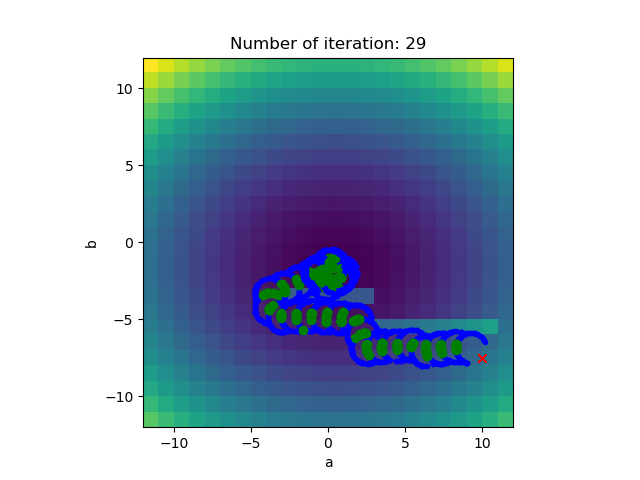
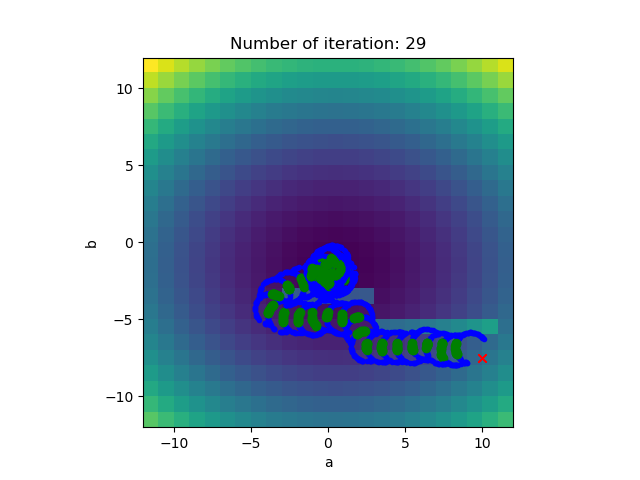
Fxing bugs

Changed region(s): [[0.375, 0.5, 0.7812, 0.7812]]

diff --git a/paragrid/paragrid.py b/paragrid/paragrid.py
@@ -1,51 +1,52 @@
 import inspect
 import time
-import warnings
 import concurrent.futures
-import re
 from tqdm import tqdm
-import math
 import itertools
-
 import numpy as np
-import skopt.space
-from skopt.space import Real, Integer
-from skopt import Optimizer
+        
 from sklearn.model_selection import cross_val_score
 import matplotlib.pyplot as plt
 
-def plot_param(param, results):
-    param = np.array(param)
-    results = np.array(results)
-    results.shape = (len(results), )
-    all_params = np.zeros((len(results),3))
-    all_params[:, :2] = param
-    all_params[:, 2] = results
-    plt.scatter(all_params[:,0], all_params[:,1],
-        s = np.abs(all_params[:,2])*100, color = 'red')
+def plot_param(param, results, save: bool = False): # ! todo add 3d figure
+    fig, ax = plt.subplots(figsize = (20,20))
+    xlabel = np.round(list(dict.fromkeys(np.array(param)[:,0])),4)
+    ylabel = np.round(list(dict.fromkeys(np.array(param)[:,1])),4)
+
+    results = np.abs(np.array(results))
+    results.shape = (len(xlabel),len(ylabel))
+    # results = np.flip(results[::-1].T)
+    im = plt.imshow(results)
+    cbar = ax.figure.colorbar(im, ax=ax)
     
-    best = all_params[np.argpartition(np.abs(all_params[:,2]), 4)][:5]
-    plt.scatter(best[:,0], best[:,1],
-        s = np.abs(best[:,2])*100, color = 'blue')
-    plt.savefig(f'{np.mean(np.abs(best[:,2]))}.png')
+    # labels
+    ax.set_yticks(np.arange(len(xlabel))[::2])
+    ax.set_xticks(np.arange(len(ylabel))[::2])
+    ax.set_yticklabels(xlabel[::2], fontsize = 8)
+    ax.set_xticklabels(ylabel[::2], fontsize = 8)
+
+    plt.show()
+    if save:
+        plt.savefig(f'figure.png')
 
 class paragrid():
-    
-    def __init__(self, model, space: [list, dict], X=None, y=None, ncalls = 10, target = 'min',
+    def __init__(self, model: [], space: dict, X=None,  y=None, target = 'min',
                  niter = 0, func_type = 'ML', plot = False):
         assert target in ['min', 'max'], 'target parameter must be min or max'
         assert func_type in ['ML', 'func'], 'func_type parameter must be ML or func'
-        
+        plt.close('all')
         self.X, self.y, self.niter = X, y, niter
         self.model, self.space = model, space
-        self.ncalls, self.target = ncalls, target
+        self.target = target
         self.func_type = func_type
         self.plot = plot
+        self.lr, self.old_parameter, self.old_results = None, None, None
+        
         if func_type == 'func':
             self.func_para = inspect.getargspec(model)[0]
         
         if self.target == 'min':
-            self.results_best = 10**10
+            self.results_best = 10**100
         elif self.target == 'max':
             self.results_best = 0.0
             
@@ -76,18 +77,21 @@ class paragrid():
     
     def parallelizing(self, args, params):
         with concurrent.futures.ProcessPoolExecutor() as executor:
-            result = executor.map(self.setting_parameters, args)
-            results = []
+            if self.niter == 0:
+                results = list(tqdm(executor.map(self.setting_parameters, args),
+                                    total = len(params)))
+            else:
+                results = list(executor.map(self.setting_parameters, args))
             parameter = []
-        for r, param in zip(result, params):
-            results.append(r)
+
+        for param in params:
             parameter.append(param)
         return parameter, results
-
+    
     def create_args(self):
-        if type(self.space) == dict:
-            self.param_names = [i for i in self.space.keys()]
-            param_list = []
+        self.param_names = [i for i in self.space.keys()]
+        param_list = []
+        if self.lr is None:
             for i in self.param_names:
                 dtype = ('int' if all([type(i) == int for i in self.space[i][:2]])
                          else 'float' if all([type(i) == float for i in self.space[i][:2]])
@@ -100,12 +104,27 @@ class paragrid():
                                                   self.space[i][2],
                                                   dtype = dtype))
             params = [i for i in itertools.product(*param_list)]
-            print(f'Number of iterations: {len(params)}')
         else:
-            opt = Optimizer(self.space)
-            self.param_names = [i.name for i in self.space]            
-            params = [opt.ask() for _ in range(self.ncalls)]
-            
+            self.lr = 1/self.lr #!!!todo to be changed reducing lr for the radius
+            N = 100 #@todo this nees to be an attr
+            dim = len(self.param_names)
+            norm = np.random.normal
+            normal_deviates = norm(size=(dim, N))
+            radius = np.sqrt((normal_deviates**2).sum(axis=0))*self.lr
+            points = np.array(normal_deviates/radius)
+            parameter = np.array(list(self.space.values()))
+            parameter.shape = (dim,1)
+            params = parameter+points
+            if (self.old_parameter is not None) & (self.old_results is not None):
+                old_center = np.array(list(self.old_space.values()))
+                old_center.shape = (dim,1)
+                params_old = old_center-params
+                # print(np.sqrt(np.sum(old_center.T-np.array(list(self.parameter_best.values())))**2))
+                params = np.array(tuple(map(tuple, params.T)))[np.sqrt(np.sum(params_old**2,axis=0))>1]
+                params = tuple(map(tuple, params))
+            else:
+                params = tuple(map(tuple, params.T))
+        # print(f'Number of iterations: {len(params)}') 
         args = ((self.model, self.param_names, b) for b in params)
         return args, params
     
@@ -129,26 +148,16 @@ class paragrid():
         if type(self.space) == dict:
             space = {}
         for i, j, values in zip(self.space, self.param_names, parameter_low_top):
-            try: # for skopt type
-                if i.dtype == int:
-                    if values[0]==values[1]:
-                        values = [values[0], values[1]+1]
-                    space.append(Integer(values[0], values[1], name=j))
-                elif i.dtype == float:
-                    if values[0]==values[1]:
-                        values = [values[0], values[1]+values[1]/100]
-                    space.append(Real(values[0], values[1], name=j))
-            except AttributeError as e: # for dict type
-                if (type(self.space[i][0]) == int) & (type(self.space[i][1]) == int):
-                    if type(values[0])==type(values[1]):
-                        values = [int(values[0]-values[1]/100), 
-                                  int(values[1]+values[1]/100),self.space[i][2]]
-                    space[i] = values
-                elif (type(self.space[i][0]) == float) & (type(self.space[i][1]) == float):
-                    if type(values[0])==type(values[1]):
-                        values = [values[0]-values[1]/100, 
-                                  values[1]+values[1]/100,self.space[i][2]]
-                    space[i] = values
+            if (type(self.space[i][0]) == int) & (type(self.space[i][1]) == int):
+                if type(values[0])==type(values[1]):
+                    values = [int(values[0]-values[1]/100), 
+                              int(values[1]+values[1]/100),self.space[i][2]]
+                space[i] = values
+            elif (type(self.space[i][0]) == float) & (type(self.space[i][1]) == float):
+                if type(values[0])==type(values[1]):
+                    values = [values[0]-values[1]/100, 
+                              values[1]+values[1]/100,self.space[i][2]]
+                space[i] = values
         self.space = space
         args, params = self.create_args()
         return args, params
@@ -182,18 +191,75 @@ class paragrid():
             args, params = self.higher_quartile(parameter, results)
             parameter, results = self.parallelizing(args, params)
             self.select_best(parameter, results)
-            self.bool_plotting(self, parameter, results)
+            self.bool_plotting(parameter, results)
         
         print(f'\nBest score: {self.results_best}')
         print(f'Parameters: {self.parameter_best}')
         print(f'Time it took: {time.time()-start}s')
         return parameter, results
     
-
+    def find_gradient(self, parameter, results, number_for_mean = 10):
+        # print(parameter)
+        parameter_sorted = [x for _,x in sorted(zip(results, parameter))][:number_for_mean]
+        mean_parameter = np.mean(parameter_sorted, axis = 0)
+        self.old_space, self.old_parameter = self.space.copy(), parameter.copy()
+        self.old_results = results.copy()
+        for name, value in zip(self.param_names, mean_parameter):
+            self.space[name] = value
+        args, params = self.create_args()
+        return args, params
+    
+    def gradient_decent(self, lr: float, valid = 20):
+        self.lr = lr
+        start = time.time()
+        args, params = self.create_args()
+        parameter, results = self.parallelizing(args, params)
+        self.select_best(parameter, results)
+        self.bool_plotting(parameter, results)
+        jump_out_of_loop = 0 # !todo name change
+        for i in tqdm(range(self.niter)):
+            args, params = self.find_gradient(parameter, results)
+            parameter, results = self.parallelizing(args, params)
+            self.select_best(parameter, results)
+            self.bool_plotting(parameter, results)
+            self.plots_gradient(parameter, results, i)
+            if ((self.target == 'min') & (self.results_best < np.min(results)) |
+                (self.target == 'max') & (self.results_best > np.min(results))):
+                jump_out_of_loop += 1
+                if valid == jump_out_of_loop:
+                    print('The result has not improved from'
+                          f'{jump_out_of_loop} iterations')
+                    break
+                
+        
+        print(f'\nBest score: {self.results_best}')
+        print(f'Parameters: {self.parameter_best}')
+        print(f'Time it took: {time.time()-start}s')
+        return parameter, results
+    
     def score(self):
         return self.parameter_best
     
-
+    def plots_gradient(self, parameter, result, niter):
+        z = []
+        size = 12
+        for i, j in itertools.product(range(-size,size), range(-size,size)):
+            z.append(self.model(i,j))
+        parameter_sorted = [x for _,x in sorted(zip(result, parameter))]
+        parameter_sorted = parameter_sorted[:10]
+        t = np.array(z)
+        t.shape = (2*size,2*size)
+        t = np.flip(t[::-1].T)
+        im = plt.imshow(t, extent=[-size, size, -size, size])
+        plt.plot(np.array(parameter)[:,0], np.array(parameter)[:,1], 'b.')
+        plt.plot(np.array(parameter_sorted)[:,0], np.array(parameter_sorted)[:,1], 'go')
+        plt.plot(10,-7.5, 'rx')
+        plt.xlabel('a')
+        plt.title(f'Number of iteration: {niter}')
+        plt.ylabel('b')
+        plt.show()
+        plt.savefig(f'./figures/{niter}.png')
+        
     def bool_plotting(self, parameter, results):
         if (np.shape(parameter)[1] == 2) and self.plot:
             plot_param(parameter, results)

diff --git a/setup.py b/setup.py
@@ -2,17 +2,16 @@ from distutils.core import setup
 setup(
   name = 'paragrid',         # How you named your package folder (MyLib)
   packages = ['paragrid'],   # Chose the same as "name"
-  version = '0.0.6',      # Start with a small number and increase it with every change you make
+  version = '0.0.8',      # Start with a small number and increase it with every change you make
   license='MIT',        # Chose a license from here: https://help.github.com/articles/licensing-a-repository
-  description = 'Simple parallelized grid search using scikits Optimizer to find the best hyperparameters',   # Give a short description about your library
+  description = 'Simple parallelized grid search to find the best hyperparameters',   # Give a short description about your library
   author = 'Malte Algren',                   # Type in your name
   author_email = 'malte__algren@hotmail.com',      # Type in your E-Mail
   url = 'https://github.com/malteal/paragrid',   # Provide either the link to your github or to your website
-  download_url = 'https://github.com/malteal/paragrid/archive/0.0.6.tar.gz',    # I explain this later on
+  download_url = 'https://github.com/malteal/paragrid/archive/0.0.8.tar.gz',    # I explain this later on
   keywords = ['machinelearning', 'gridsearchcv', 'parallel-computing'],   # Keywords that define your package best
   install_requires=[            # I get to this in a second
           'numpy',
-          'scikit-optimize',
           'sklearn',
           'matplotlib',
           'xgboost',

diff --git a/examples/classification_example.py b/examples/classification_example.py
@@ -1,11 +1,11 @@
-# Help packages
+    # Help packages
 from sklearn.datasets import load_breast_cancer
 import numpy as np
 import matplotlib.pyplot as plt
 
 # Classifiers
 from sklearn.ensemble import GradientBoostingClassifier
-from xgboost import XGBClassifier
+# from xgboost import XGBClassifier
 from lightgbm import LGBMClassifier
 
 
@@ -39,7 +39,7 @@ if __name__ == "__main__":
     breast_cancer = load_breast_cancer()
     X, y = breast_cancer.data, breast_cancer.target    
     reg_cls_gpdt = GradientBoostingClassifier()
-    xbg_cls = XGBClassifier()
+    # xbg_cls = XGBClassifier()
     lgbm_cls = LGBMClassifier()
     
     params = paragrid(model=reg_cls_gpdt, space=space_gpdt,

diff --git a/paragrid/__init__.py b/paragrid/__init__.py
@@ -1,2 +1,2 @@
-from paragrid.paragrid import paragrid
+from paragrid.paragrid import paragrid, plot_param
 from .version import __version__

diff --git a/paragrid/version.py b/paragrid/version.py
@@ -1,3 +1,3 @@
-__version__ = '0.0.6'
+__version__ = '0.0.8'
 
 # 0.0.1 - Making repo ready for publish
